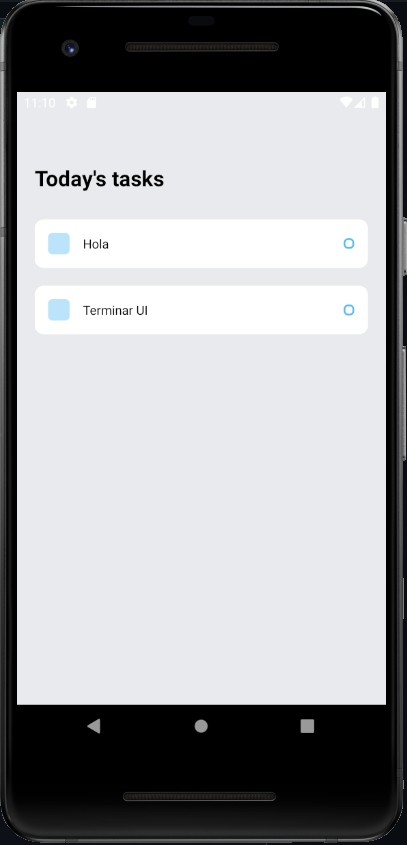
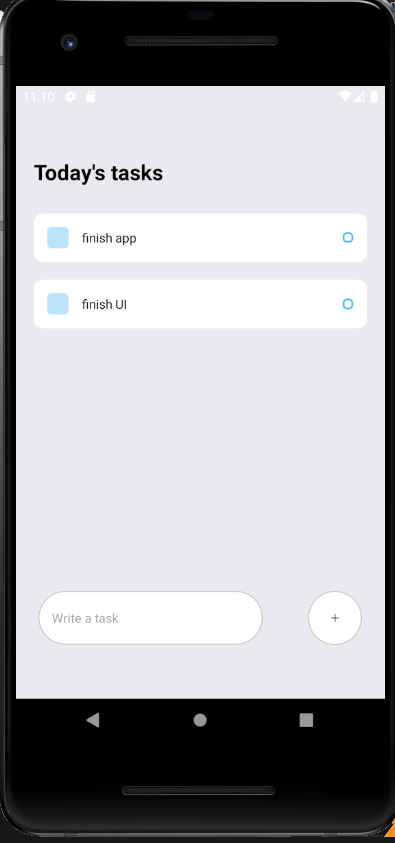
state

diff --git a/App.js b/App.js
@@ -1,8 +1,24 @@
-import React from 'react';
-import { StyleSheet, Text, View } from 'react-native';
+import React, {useState} from 'react';
+import {Keyboard, StyleSheet, Text, View, Platform, TextInput, KeyboardAvoidingView, TouchableOpacity } from 'react-native';
 import Task from './components/Task';
+import { AntDesign } from '@expo/vector-icons';
 
 export default function App() {
+  const [task,setTask] = useState();  
+  const [taskItems, setTaskItems] = useState([]);  
+
+  const handleAddTask = () =>{
+      Keyboard.dismiss();
+      setTaskItems([...taskItems,task]);
+      setTask(null);
+  }  
+
+  const completeTask = (index) =>{
+      let itemsCopy = [...taskItems];
+      itemsCopy.splice(index,1);
+      setTaskItems(itemsCopy);
+  }  
+
   return (
     <View style={styles.container}>
       {/*Today's Tasks*/}
@@ -10,10 +26,38 @@ export default function App() {
         <Text style={styles.sectionTitle}>Today's tasks</Text>
         <View style={styles.items}>
           {/*This is where the tasks will go*/}
-            <Task text='Hola'/>
-            <Task text='Terminar UI'/>
+          {
+              taskItems.map((item, index)=>{
+                  return(
+                      <TouchableOpacity key={index}  onPress={() => completeTask(index)}>
+                          <Task text={item}/>
+                      </TouchableOpacity>
+                  )
+              })
+          }  
+            
         </View>
       </View>
+      {/*write a task*/}
+      <KeyboardAvoidingView
+        behavior={Platform.OS==="ios" ? "padding" : "height"}
+        style={styles.writeTaskWrapper}
+      >
+       <TextInput 
+          style={styles.input} 
+          placeholder='Write a task'
+          value={task}
+          onChangeText={(text) =>setTask(text)}  
+       /> 
+      <TouchableOpacity onPress={()=>handleAddTask()}>
+        <View style={styles.addWrapper}>
+            <Text style={styles.addText}>
+              <AntDesign name="plus" size={12} color="black" />
+            </Text>
+        </View>
+      </TouchableOpacity>
+      </KeyboardAvoidingView>
+
     </View>
   );
 }
@@ -34,4 +78,35 @@ const styles = StyleSheet.create({
   items:{
       marginTop:30,
   },
+  writeTaskWrapper:{
+      position:'absolute',
+      bottom:60,
+      width:'100%',
+      flexDirection:'row',
+      justifyContent:'space-around',
+      alignItems:'center',
+  },
+  input:{
+      paddingVertical:15,
+      paddingHorizontal:15,
+      backgroundColor:'#FFF',
+      borderRadius:60,
+      borderColor:'#C0C0C0',
+      borderWidth:1,
+      width:250,
+  },
+  addWrapper:{
+      width:60,
+      height:60,
+      backgroundColor:'#FFF',
+      borderRadius:60,
+      justifyContent:'center',
+      alignItems:'center',
+      borderColor:'#C0C0C0',
+      borderWidth:1,  
+  },
+  addText:{
+  },  
+
+
 });
